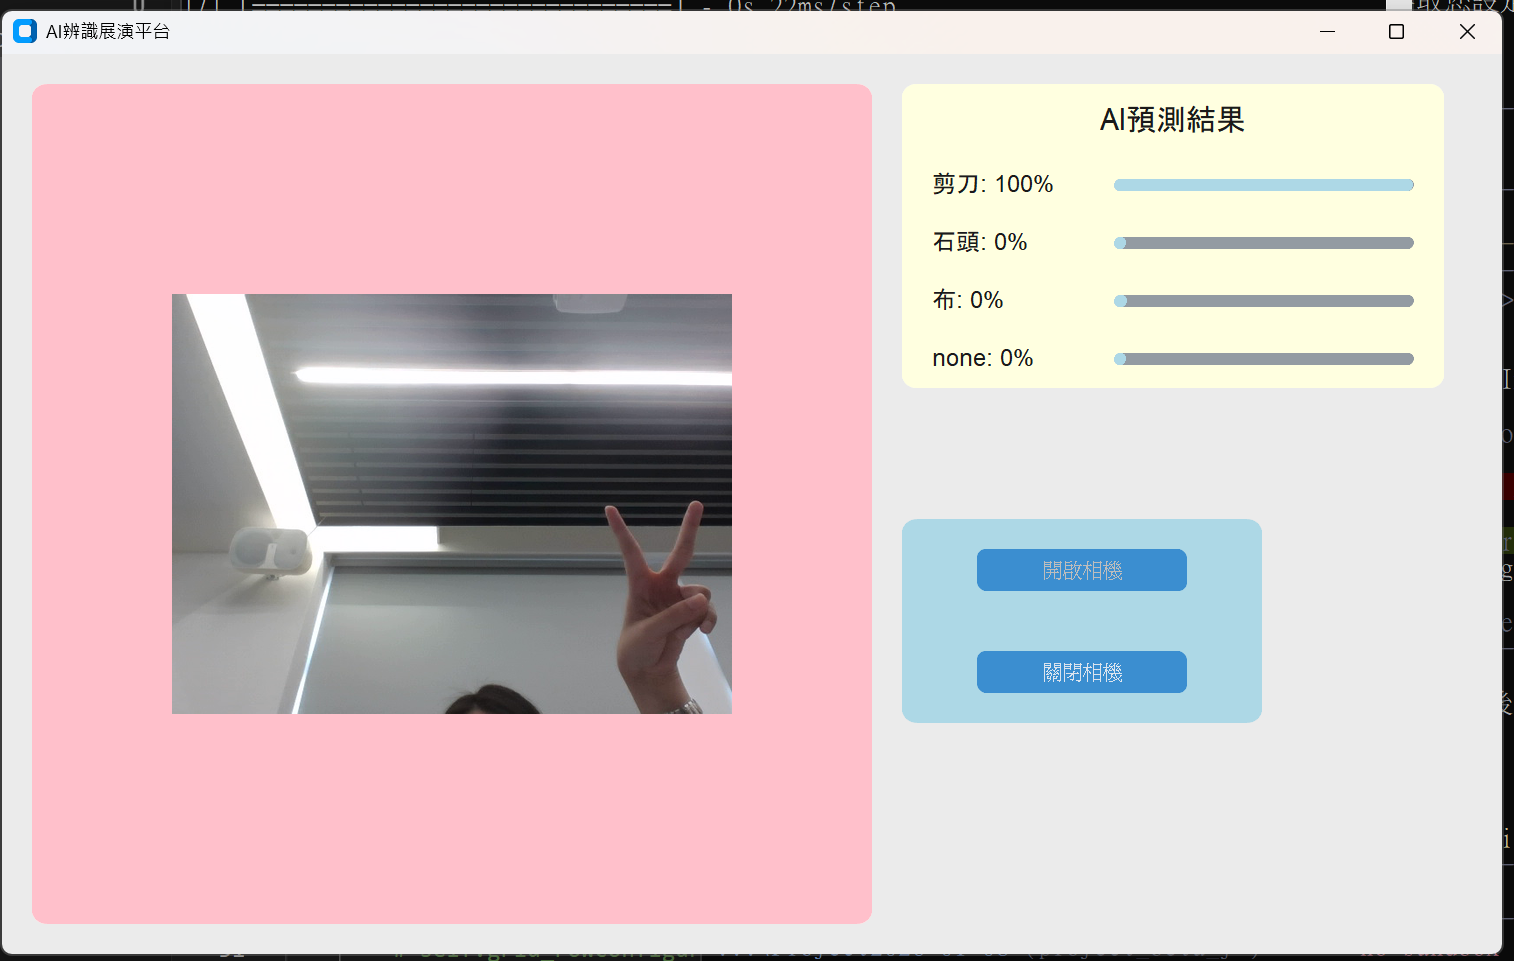
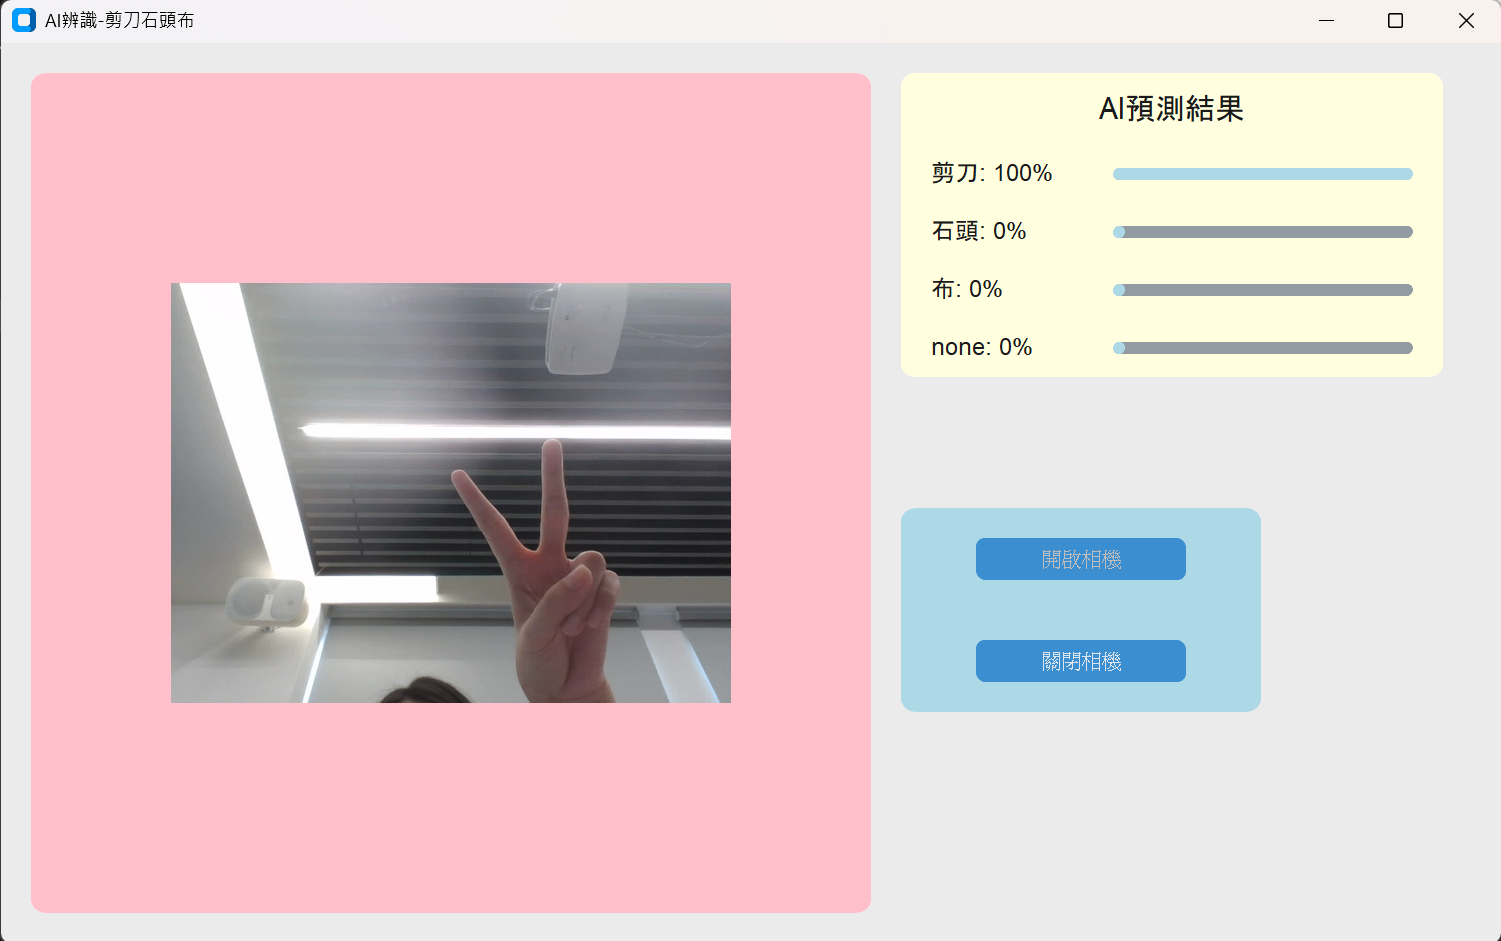
update README

diff --git a/app_gui.py b/app_gui.py
@@ -12,7 +12,7 @@ class AIApp(customtkinter.CTk):
         super().__init__()
 
         # --- Basic Setup ---
-        self.title("AI辨識展演平台")
+        self.title("AI辨識-剪刀石頭布")
         self.geometry("1000x600") # Estimated size, can be adjusted
         customtkinter.set_appearance_mode("System")
         
